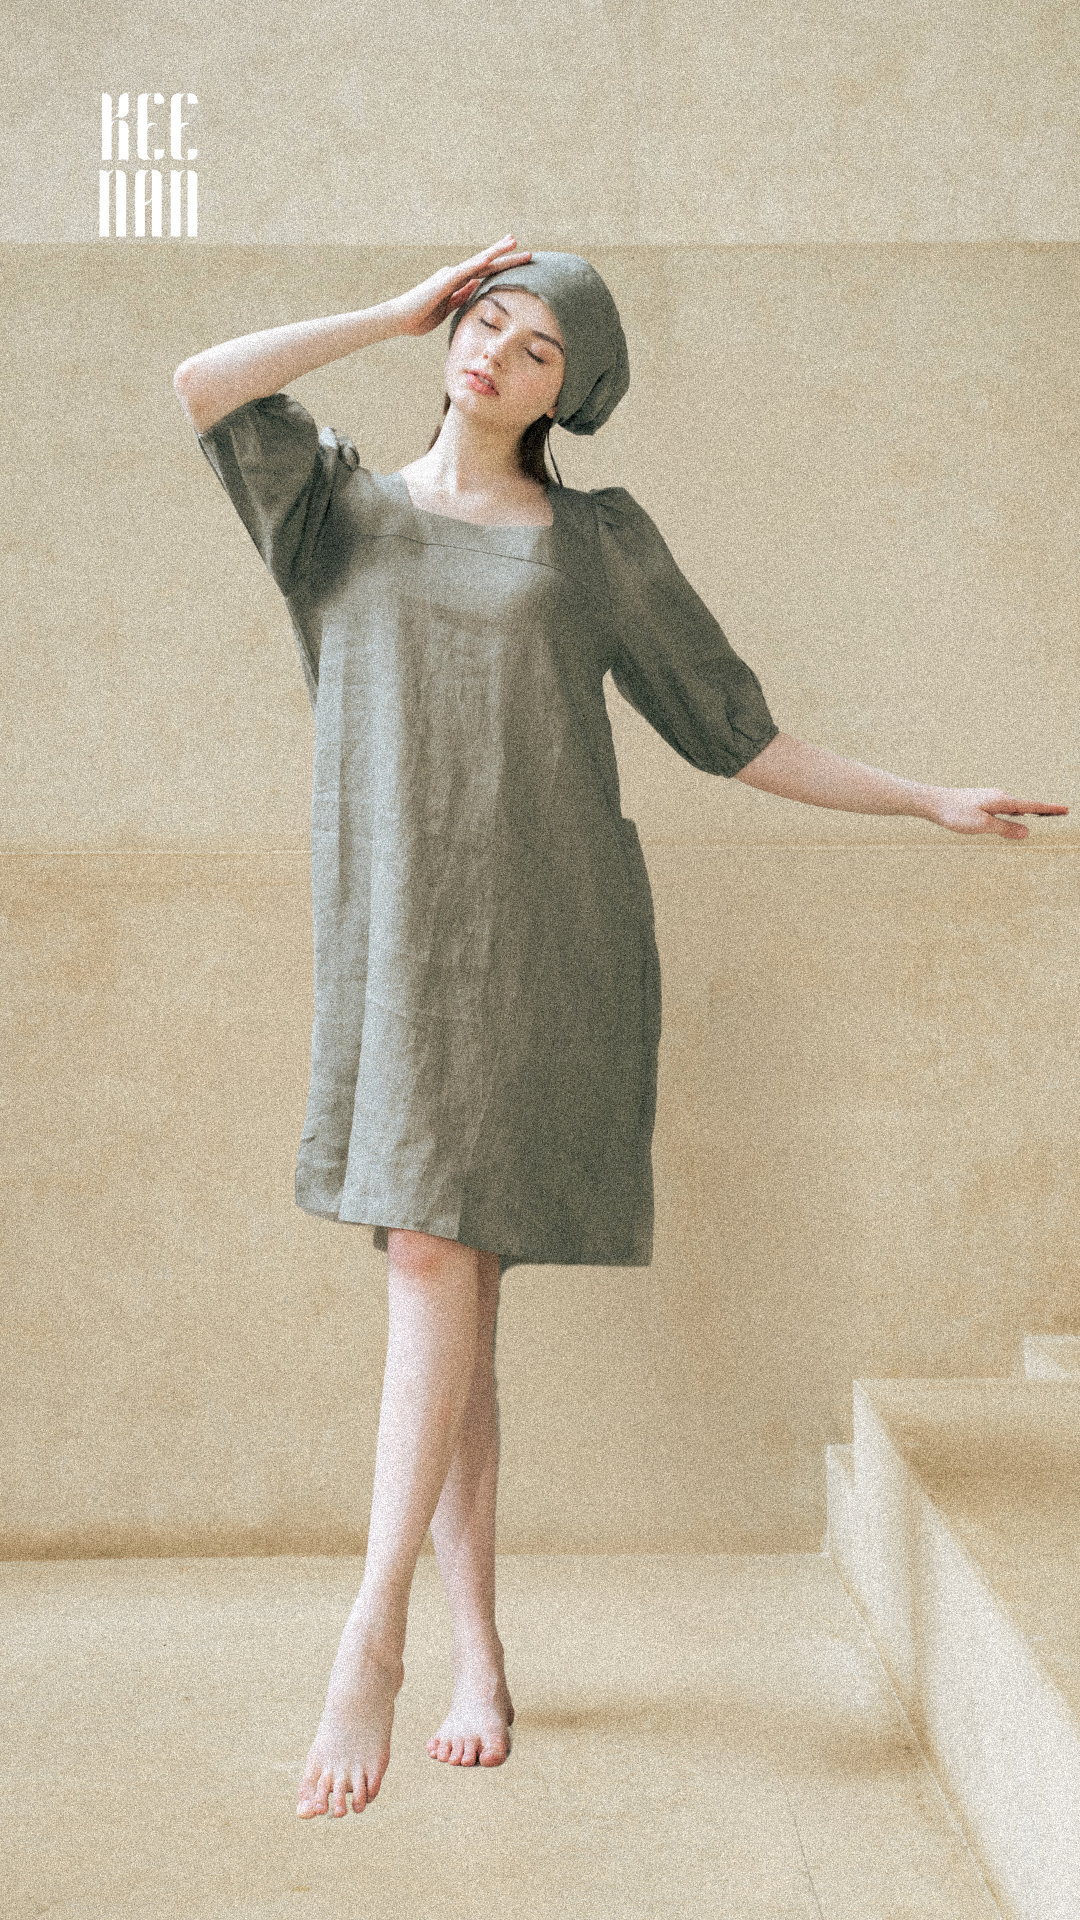
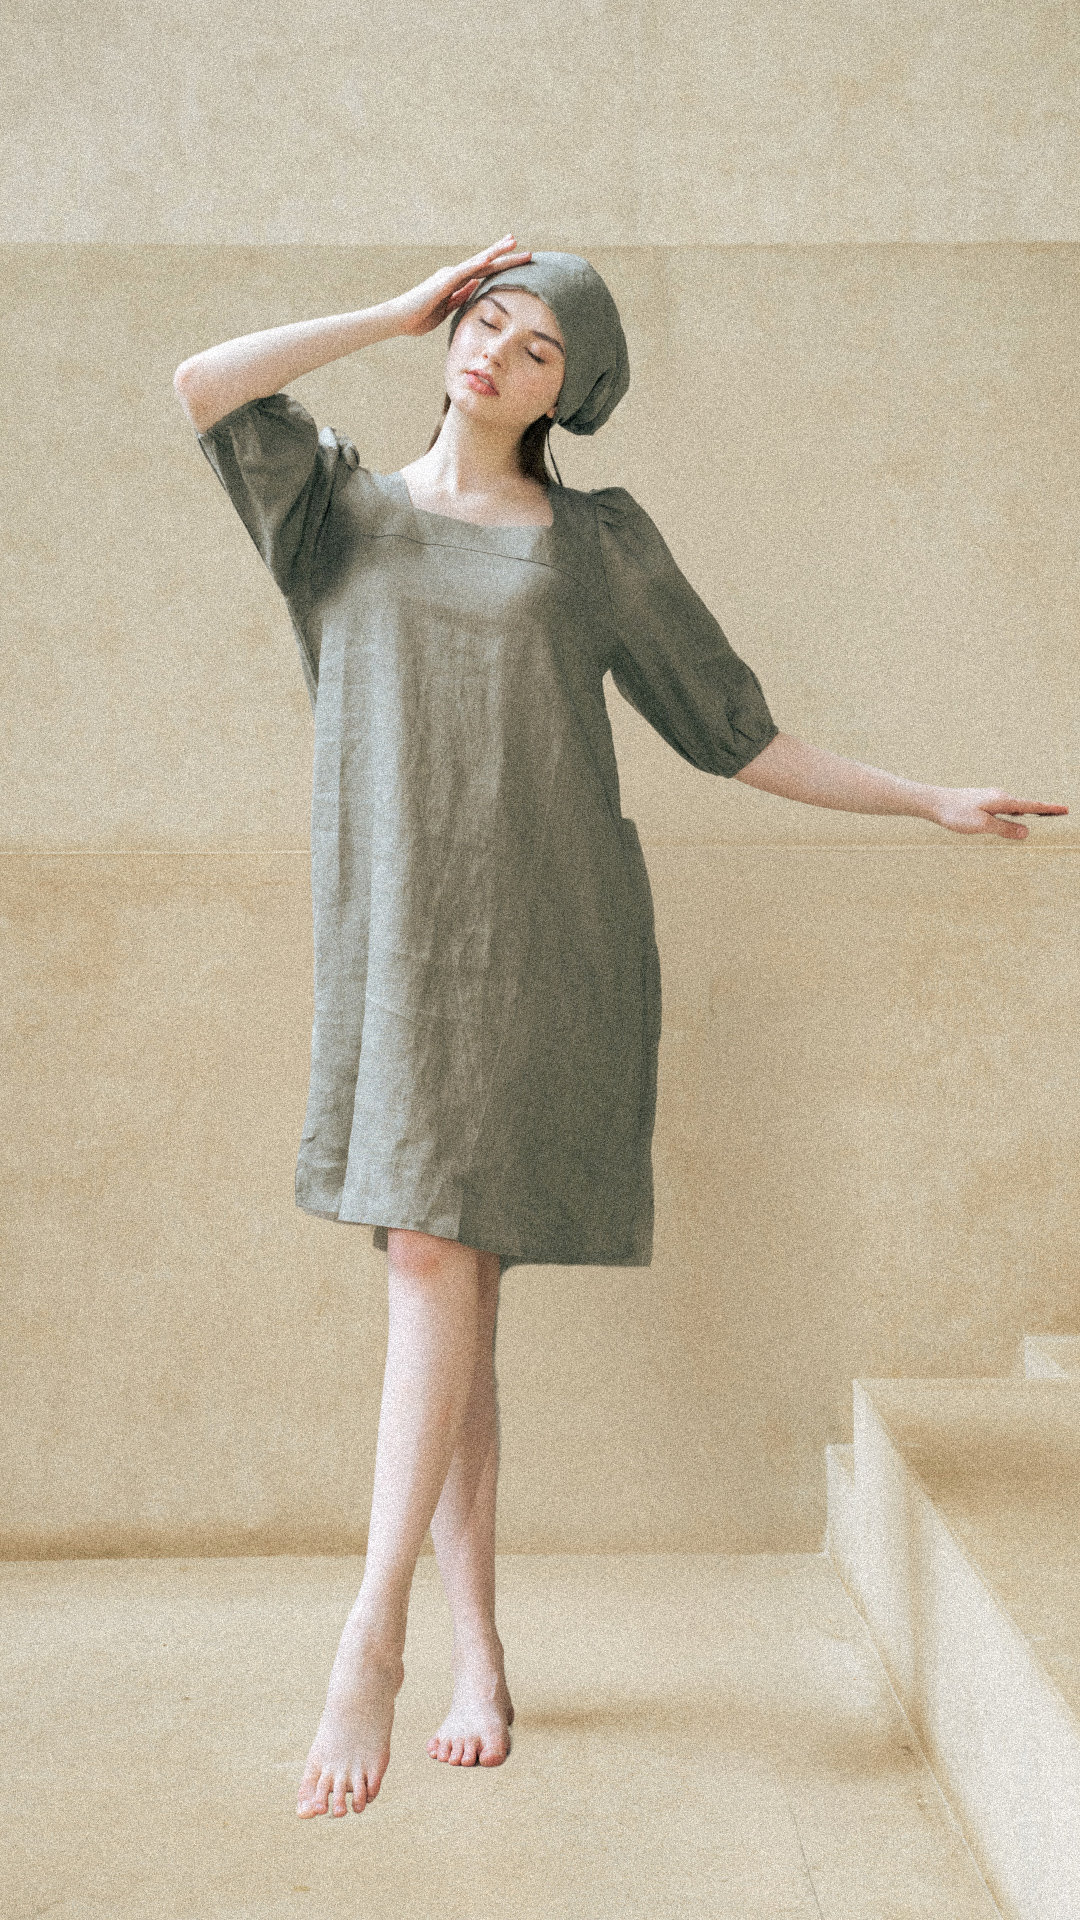
homepage image

Changed region(s): [[0.0, 0.0, 1.0, 1.0]]

diff --git a/index.html b/index.html
@@ -82,7 +82,7 @@
 
         <div class="baju">
           <a href="ollie.html">
-            <img src="./images/3.jpg">
+            <img src="./images/ollie1.jpg">
             <h2>Ollie Top in Peach Tea</h2>
             <h3>IDR. 738.000</h3>
           </a>
